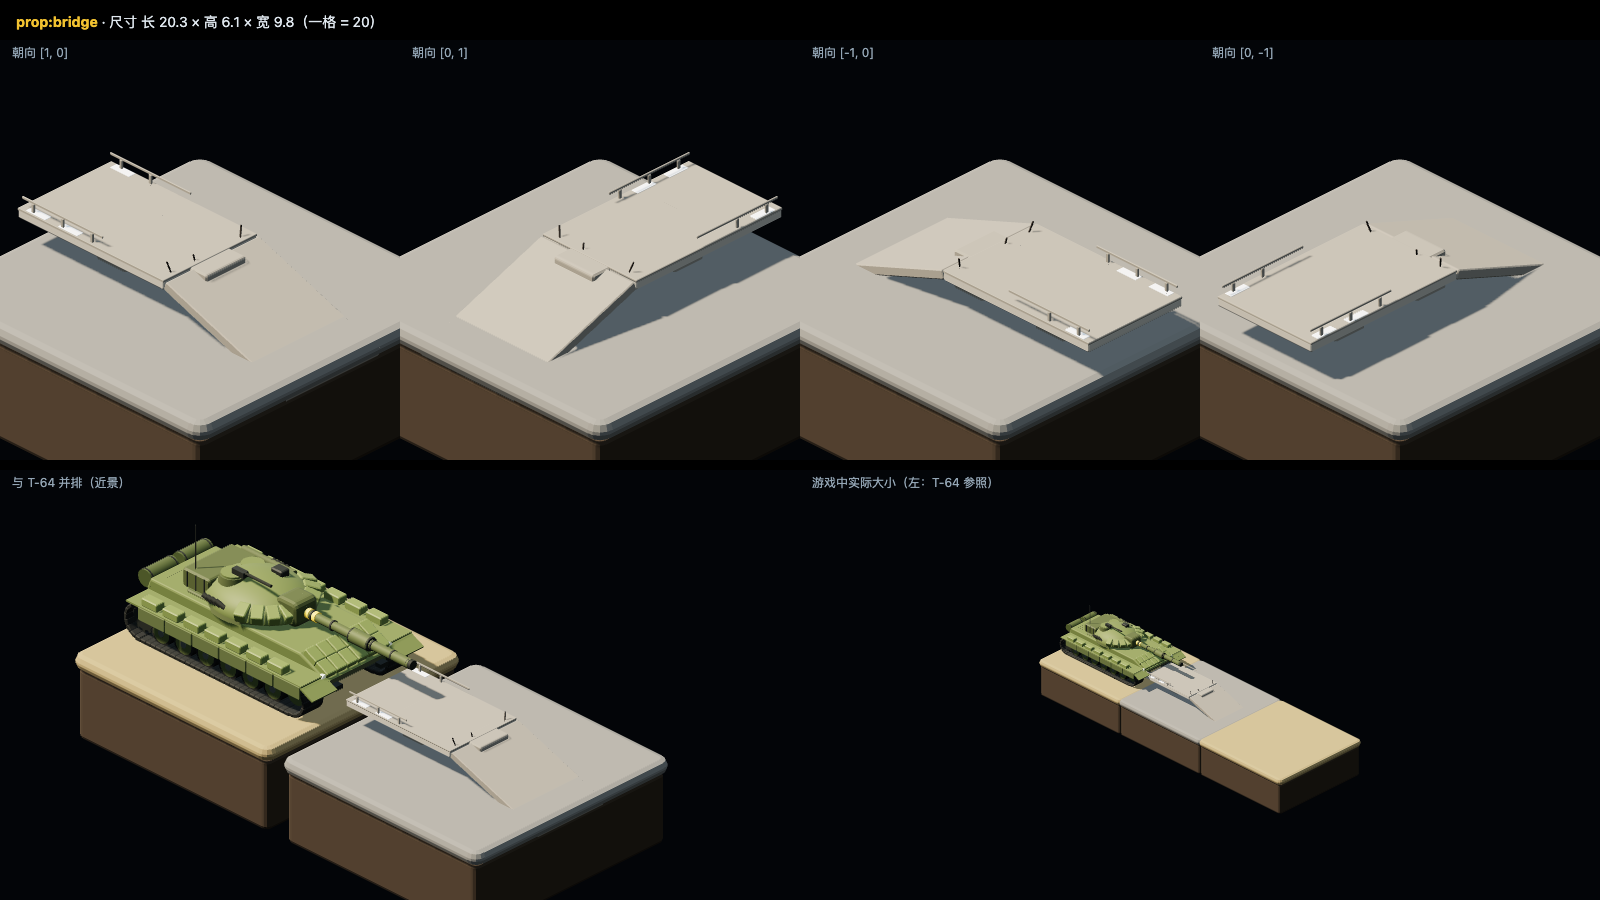
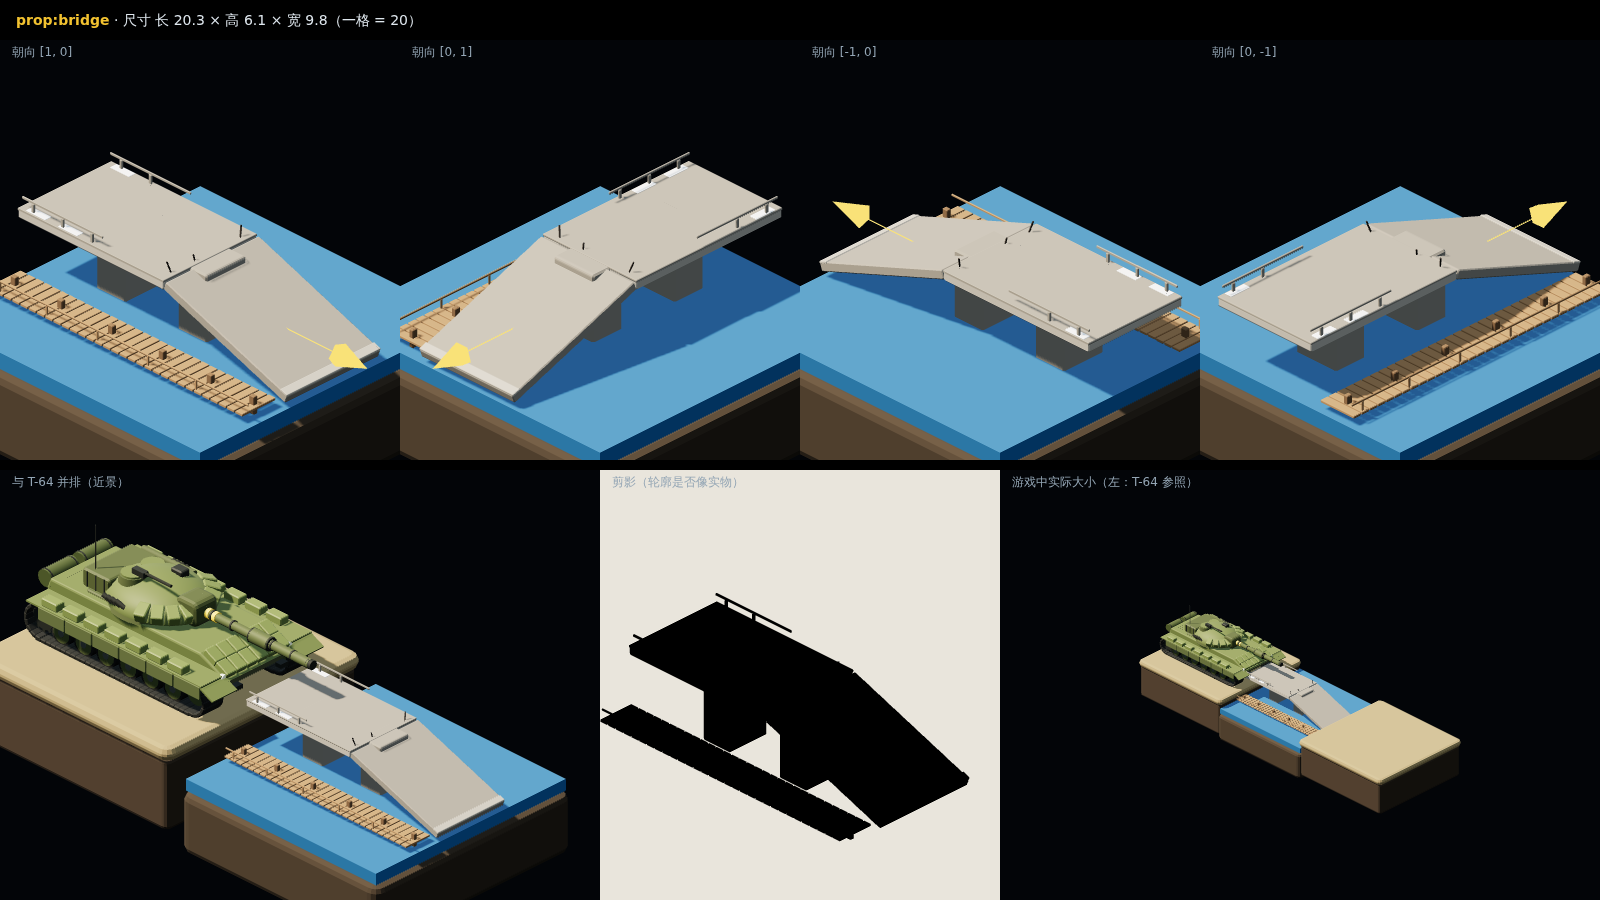
T-31, T-33: reviewer rewrites the church (roof above the walls, drum, porch, damage on the visible side); darken the bridge ruin
Claude-Session: https://claude.ai/code/session_01AwfH6u4m5DCVxaiMRmbgB9

diff --git a/game/js/models3d.js b/game/js/models3d.js
@@ -1111,56 +1111,90 @@ MODEL3D['bld:b'] = m3BldB;
 // ---------- T-31 教堂 bld:c ----------
 function m3BldC(seed, dmg) {
   const B = new THREE.Group();
-  const WALL = mat3('#e7e3d8', 0.8), BLUE = mat3('#3b6fb6', 0.6), ROOFG = mat3('#4a705d', 0.7), SNOW = mat3('#eef2f4', 0.75);
-  const DKS = mat3('#2d302a', 0.6, 0.3), GLS = mat3('#223044', 0.1, 0.3), GOLD = mat3('#e3b341', 0.3, 0.8);
-  const INK = mat3('#141614', 0.9);
-  // 1. chapel body: 12 x 9 footprint, walls 6 high
-  part(B, rbox(12, 6, 9, 0.14), WALL, 0, 3.0, 0);
-  // 2. three arched windows per long side: rectangular glass, semicircular top, blue frame
+  const WALL = mat3('#d8d2c4', 0.85), BLUE = mat3('#3b6fb6', 0.6), ROOFG = mat3('#4a705d', 0.7), ROOFD = mat3('#3d5e4d', 0.75);
+  const DKS = mat3('#2d302a', 0.6, 0.3), GLS = mat3('#223044', 0.1, 0.3), GOLD = mat3('#d9a93a', 0.3, 0.8);
+  const INK = mat3('#141614', 0.9), SOOT = mat3('#1f1c19', 1), BASE = mat3('#8d887d', 0.9);
+  const WH = 5.0, RH = 3.2, HX = 6.0, HZ = 4.5, OV = 0.6;   // wall height, roof rise, half length, half width, eave overhang
+  // 1. chapel body: 12 x 9 footprint, low walls on a grey plinth; triangular gables carry the roof
+  part(B, rbox(12.3, 0.5, 9.3, 0.1, 1), BASE, 0, 0.25, 0);
+  part(B, rbox(2 * HX, WH, 2 * HZ, 0.14), WALL, 0, WH / 2, 0);
+  const gs = new THREE.Shape(); gs.moveTo(-HZ, 0); gs.lineTo(HZ, 0); gs.lineTo(0, RH); gs.closePath();
+  const gg = new THREE.ExtrudeGeometry(gs, { depth: 0.3, bevelEnabled: false });
+  part(B, gg, WALL, HX - 0.3, WH, 0, 0, HALF_PI, 0);
+  part(B, gg, WALL, -HX, WH, 0, 0, HALF_PI, 0);
+  // 2. three arched windows per long side: glass, semicircular top, blue frame
   for (const s of [-1, 1]) for (let k = 0; k < 3; k++) {
-    const wx = -3.6 + k * 3.4, wy = 2.6, wz = s * 4.56;
+    const wx = -3.6 + k * 3.4, wy = 2.5, wz = s * (HZ + 0.03);
     const burnt = dmg && k === 1;
-    part(B, rbox(0.12, 1.5, 1.2, 0.04, 1), burnt ? INK : GLS, wx, wy - 0.45, wz);
-    part(B, new THREE.CylinderGeometry(0.6, 0.6, 0.12, 16, 1, false, 0, Math.PI), burnt ? INK : GLS, wx, wy + 0.3, wz, HALF_PI, 0, 0);
-    part(B, new THREE.CylinderGeometry(0.68, 0.68, 0.1, 16, 1, false, 0, Math.PI), BLUE, wx, wy + 0.3, s * 0.08, HALF_PI, 0, 0);
-    for (const dx of [-0.66, 0.66]) part(B, new THREE.BoxGeometry(0.14, 2.5, 0.14), BLUE, wx + dx, wy - 0.4, s * 0.08);
+    part(B, new THREE.BoxGeometry(1.2, 1.5, 0.1), burnt ? INK : GLS, wx, wy - 0.45, wz);
+    part(B, new THREE.CylinderGeometry(0.6, 0.6, 0.1, 16, 1, false, -HALF_PI, Math.PI), burnt ? INK : GLS, wx, wy + 0.3, wz, HALF_PI, 0, 0);
+    part(B, new THREE.CylinderGeometry(0.72, 0.72, 0.08, 16, 1, false, -HALF_PI, Math.PI), BLUE, wx, wy + 0.3, s * (HZ + 0.01), HALF_PI, 0, 0);
+    for (const dx of [-0.68, 0.68]) part(B, new THREE.BoxGeometry(0.14, 1.6, 0.12), BLUE, wx + dx, wy - 0.5, s * (HZ + 0.04));
+    part(B, new THREE.BoxGeometry(1.6, 0.12, 0.25), BLUE, wx, wy - 1.25, s * (HZ + 0.08));
+    if (burnt) part(B, new THREE.BoxGeometry(2.0, 2.2, 0.05), SOOT, wx, wy + 1.4, s * (HZ + 0.03));
   }
-  // 3. green pitched roof: stepped boards down both slopes, snow; a hole on one slope when damaged
-  const slope = Math.atan2(3.0, 4.5);
+  // 3. green pitched roof, ridge along x; each slope in three lengthwise pieces so one can be holed when damaged
+  const slope = Math.atan2(RH, HZ), sl = Math.hypot(HZ + OV, RH * (HZ + OV) / HZ);
   for (const s of [-1, 1]) {
-    const R = new THREE.Group(); R.position.set(0, 6.0, 0); R.rotation.x = s * slope; B.add(R);
-    for (let k = 0; k < 6; k++) {
-      if (dmg && s === -1 && k > 1 && k < 5) continue;
-      part(R, new THREE.BoxGeometry(12.9, 0.22, 1.2), k % 2 ? ROOFG : mat3('#43674f', 0.7), 0, 0.04 * k, s * (0.55 + k * 0.8));
+    const R = new THREE.Group(); R.position.set(0, WH + RH + 0.12, 0); R.rotation.x = s * slope; B.add(R);
+    for (const [px, pw] of [[-4.3, 4.6], [0, 4.0], [4.3, 4.6]]) {
+      if (dmg && s === 1 && px === 0) continue;
+      part(R, rbox(pw, 0.24, sl, 0.06, 1), ROOFG, px, 0, s * sl / 2);
     }
-    if (!(dmg && s === -1)) part(R, rbox(12.9, 0.07, 1.0, 0.03, 1), SNOW, 0, 0.16, s * 2.9);
-    if (dmg && s === -1) part(B, rbox(3.6, 1.7, 3.6, 0.1, 1), INK, 0.3, 5.5, s * 1.7);
+    // standing seams down the slope
+    for (let k = 0; k < 11; k++) {
+      const x = -6.2 + k * 1.24;
+      if (dmg && s === 1 && Math.abs(x) < 2) continue;
+      part(R, new THREE.BoxGeometry(0.07, 0.08, sl), ROOFD, x, 0.15, s * sl / 2);
+    }
+    if (dmg && s === 1) {
+      // the hole: charred rafters across it, dark inside
+      for (const [x, rz] of [[-1.2, 0.15], [0.3, -0.25], [1.4, 0.35]]) part(R, new THREE.BoxGeometry(0.14, 0.14, sl * 0.8), mat3('#3a2e24', 0.95), x, -0.02, sl * 0.45, 0, rz, 0);
+      part(B, new THREE.BoxGeometry(4.0, 0.05, 4.2), INK, 0, WH + 0.03, 2.2);
+    }
   }
-  // 4. octagonal drum on the ridge, four small arched windows, golden onion dome, orthodox cross
-  part(B, cyl(2.0, 2.15, 3.0, 8), WALL, -0.5, 10.5, 0);
-  for (const a of [0.4, 1.97, 3.54, 5.11]) {
-    part(B, rbox(0.45, 0.85, 0.1, 0.03, 1), GLS, -0.5 + Math.cos(a) * 1.9, 10.5, Math.sin(a) * 1.9, 0, -a, 0);
-    part(B, new THREE.CylinderGeometry(0.3, 0.3, 0.1, 10, 1, false, 0, Math.PI), BLUE, -0.5 + Math.cos(a) * 1.95, 11.0, Math.sin(a) * 1.95, HALF_PI, -a, 0);
+  part(B, cyl(0.16, 0.16, 12.9, 8), ROOFD, 0, WH + RH + 0.2, 0, 0, 0, HALF_PI);
+  // 4. octagonal drum astride the ridge, four arched windows, golden onion dome, orthodox cross
+  const DX = -0.5, DY = WH + RH - 0.6;
+  part(B, cyl(1.9, 2.05, 3.4, 8), WALL, DX, DY + 1.7, 0, 0, Math.PI / 8, 0);
+  part(B, cyl(2.2, 2.2, 0.25, 8), ROOFG, DX, DY + 3.45, 0, 0, Math.PI / 8, 0);
+  for (const a of [0, HALF_PI, Math.PI, 3 * HALF_PI]) {
+    const G = new THREE.Group(); G.position.set(DX + Math.cos(a) * 1.9, DY + 2.2, -Math.sin(a) * 1.9); G.rotation.y = a + HALF_PI; B.add(G);
+    part(G, new THREE.BoxGeometry(0.5, 0.8, 0.1), GLS, 0, 0, 0);
+    part(G, new THREE.CylinderGeometry(0.25, 0.25, 0.1, 10, 1, false, -HALF_PI, Math.PI), GLS, 0, 0.4, 0, HALF_PI, 0, 0);
   }
   const pts = [];
-  for (const [r, h] of [[0.05, 0], [1.6, 0.55], [2.3, 1.85], [2.1, 3.3], [1.2, 4.6], [0.55, 5.4], [0.24, 6.1], [0.03, 6.6]]) pts.push(new THREE.Vector2(r, h));
-  const ON = new THREE.Group(); ON.name = 'onion'; ON.position.set(-0.5, 12.0, 0); B.add(ON);
-  if (dmg) ON.rotation.z = -0.62;
+  for (const [r, h] of [[0.05, 0], [1.5, 0.3], [2.1, 1.3], [1.9, 2.6], [1.1, 3.6], [0.45, 4.3], [0.2, 4.9], [0.03, 5.3]]) pts.push(new THREE.Vector2(r, h));
+  const ON = new THREE.Group(); ON.name = 'onion'; ON.position.set(DX, DY + 3.55, 0); B.add(ON);
+  if (dmg) { ON.rotation.z = -0.55; ON.rotation.x = 0.2; }
   part(ON, new THREE.LatheGeometry(pts, 20), GOLD, 0, 0, 0);
-  part(ON, cyl(0.05, 0.05, 1.15, 6), GOLD, 0, 7.0, 0);
-  part(ON, new THREE.BoxGeometry(0.95, 0.09, 0.09), GOLD, 0, 7.25, 0);
-  part(ON, new THREE.BoxGeometry(0.65, 0.08, 0.08), GOLD, 0, 6.75, 0);
-  const SL = part(ON, new THREE.BoxGeometry(0.52, 0.07, 0.07), GOLD, 0, 6.15, 0); SL.rotation.z = 0.5;
-  // 5. porch on the +x face: small triangular roof, one arched door, three steps
-  part(B, rbox(1.8, 2.3, 3.7, 0.1, 1), WALL, 6.9, 1.15, 0);
-  part(B, rbox(0.12, 1.4, 1.1, 0.04, 1), INK, 7.82, 1.5, 0);
-  part(B, new THREE.CylinderGeometry(0.55, 0.55, 0.12, 14, 1, false, 0, Math.PI), INK, 7.82, 2.2, 0, HALF_PI, 0, 0);
-  for (const s of [-1, 1]) part(B, rbox(2.1, 0.14, 0.2, 0.05, 1), ROOFG, 7.35, 2.85, s * 1.0, 0, 0, -s * 0.55);
-  for (let k = 0; k < 3; k++) part(B, rbox(1.2 - k * 0.15, 0.2, 4.0 + k * 0.5, 0.04, 1), mat3('#c9c4b8', 0.85), 8.3 + k * 0.4, 0.1 + k * 0.2, 0);
-  // 7. damaged: charred window already above; rubble at the base
-  if (dmg) for (const [rx, rz, rr] of [[4.9, 1.3, 0.8], [5.6, -1.2, 0.6], [4.2, 2.0, 0.5], [5.9, 0.3, 0.55], [4.6, -0.4, 0.7], [5.2, 1.9, 0.5]]) {
-    const rub = part(B, rbox(rr * 2.2, rr, rr * 1.7, 0.06, 1), WALL, rx, rr / 2, rz); rub.rotation.y = rr * 3;
+  part(ON, cyl(0.05, 0.05, 1.5, 6), GOLD, 0, 5.8, 0);
+  part(ON, new THREE.BoxGeometry(0.09, 0.09, 0.9), GOLD, 0, 6.1, 0);
+  part(ON, new THREE.BoxGeometry(0.08, 0.08, 0.6), GOLD, 0, 5.7, 0);
+  part(ON, new THREE.BoxGeometry(0.07, 0.07, 0.5), GOLD, 0, 5.35, 0, 0.5, 0, 0);
+  // 5. porch on the +x face: gabled roof on two posts, arched door, three steps
+  part(B, new THREE.BoxGeometry(0.1, 2.0, 1.4), INK, HX + 0.02, 1.5, 0);
+  part(B, new THREE.CylinderGeometry(0.7, 0.7, 0.1, 14, 1, false, 0, Math.PI), INK, HX + 0.02, 2.5, 0, 0, 0, -HALF_PI);
+  for (const z of [-1.3, 1.3]) part(B, cyl(0.14, 0.14, 2.9, 8), WALL, HX + 1.9, 1.95, z);
+  const pr = Math.atan2(1.0, 1.7);
+  for (const s of [-1, 1]) {
+    const P = new THREE.Group(); P.position.set(HX + 1.0, 3.9, 0); P.rotation.x = s * pr; B.add(P);
+    part(P, rbox(2.4, 0.16, 2.1, 0.04, 1), ROOFG, 0, 0, s * 1.0);
   }
+  const ps = new THREE.Shape(); ps.moveTo(-1.6, 0); ps.lineTo(1.6, 0); ps.lineTo(0, 0.95); ps.closePath();
+  part(B, new THREE.ExtrudeGeometry(ps, { depth: 0.15, bevelEnabled: false }), WALL, HX + 2.05, 3.4, 0, 0, HALF_PI, 0);
+  part(B, new THREE.BoxGeometry(0.25, 0.25, 3.0), WALL, HX + 2.0, 3.35, 0);
+  part(B, new THREE.BoxGeometry(2.2, 0.2, 3.0), WALL, HX + 1.1, 3.35, 0);
+  for (let k = 0; k < 3; k++) part(B, rbox(2.6 - k * 0.5, 0.2, 3.2 - k * 0.3, 0.04, 1), BASE, HX + 1.4 + k * 0.25, 0.1 + k * 0.2, 0);
+  if (!dmg) return B;
+  // 6. damaged (on the +z side, which faces the camera): soot below the roof hole and on the gable, cracked plinth, rubble and fallen roof sheets
+  part(B, new THREE.BoxGeometry(3.4, 1.6, 0.05), SOOT, 0.2, WH - 0.9, HZ + 0.03);
+  part(B, new THREE.BoxGeometry(0.05, 1.8, 2.8), SOOT, -HX - 0.03, WH + 0.6, -1.0);
+  for (let k = 0; k < 9; k++) {
+    const x = -3 + hash(seed, k, 81) * 6, z = HZ + 0.8 + hash(seed, k, 82) * 2.4, r = 0.3 + hash(seed, k, 83) * 0.5;
+    part(B, rbox(r * 2.2, r, r * 1.7, 0.06, 1), k % 3 ? WALL : BASE, x, r / 2, z, 0, hash(seed, k, 84) * 3, (hash(seed, k, 85) - 0.5) * 0.5);
+  }
+  for (const [x, z, ry] of [[-0.8, 6.9, 0.4], [1.6, 6.5, -0.7]]) part(B, rbox(2.2, 0.12, 1.6, 0.03, 1), ROOFG, x, 0.3, z, 0.25, ry, 0.1);
   return B;
 }
 MODEL3D['bld:c'] = m3BldC;
@@ -1288,14 +1322,13 @@ function m3Rubble(seed) {
 }
 function m3BridgeRuin() {
   const T = new THREE.Group();
-  const CON1 = mat3('#9a958a', 0.85), CON2 = mat3('#7f7a70', 0.85), REB = mat3('#3a3530', 0.6, 0.4);
-  const PLANK = mat3('#8a6a48', 0.9), SNOW = mat3('#eef2f4', 0.75);
+  const CON1 = mat3('#858075', 0.85), CON2 = mat3('#6b675f', 0.85), REB = mat3('#3a3530', 0.6, 0.4);
+  const PLANK = mat3('#8a6a48', 0.9);
   // piers from the riverbed
   for (const px of [-5.2, 0.9]) part(T, rbox(2.0, 5.2, 3.0, 0.1, 1), CON2, px, -0.4, 0);
   // deck segment A: horizontal, resting on the piers, reaching the -x road
   part(T, rbox(10.8, 0.45, 7.0, 0.06, 1), CON1, -4.7, 2.0, 0);
   part(T, rbox(10.9, 0.1, 7.04, 0.03, 1), CON2, -4.7, 2.26, 0);
-  for (const [sx, sz] of [[-8.9, 3.2], [-6.5, 3.2], [-9.0, -3.2]]) part(T, rbox(1.4, 0.06, 0.5, 0.03, 1), SNOW, sx, 2.32, sz);
   // deck segment B: broken at mid-span, slanting down into the water at +x
   const segB = part(T, rbox(9.6, 0.45, 7.0, 0.06, 1), CON2, 5.4, 0.4, 0); segB.rotation.z = -0.34;
   part(segB, rbox(0.5, 0.1, 7.04, 0.03, 1), CON1, 4.55, 0.26, 0);

diff --git a/docs/tasks/T-31-精修教堂.md b/docs/tasks/T-31-精修教堂.md
@@ -120,3 +120,17 @@
    - 现在的受损图和完好图几乎一样。
 
 改完重新截 `bld_c.png` 和 `bld_c-dmg.png`。
+
+### 第 2 轮
+审查提交：27a79e3
+结论：审查方接手，已完成
+
+屋脊高度写成了墙顶高度（`R.position.y = 6.0`），两面坡屋顶整个埋进墙体里，从外面看还是一个白色方盒子；蓝色窗框放在了 `z = ±0.08`（建筑正中），也被墙挡住。按约定由审查方接手重写：
+- 墙降到 5 高，下面加灰色勒脚；屋脊抬到 8.2，挑檐 0.6，两端三角山墙；屋面加竖向压条和屋脊；
+- 窗框贴到墙面上，拱顶朝上；
+- 八角鼓座骑在屋脊上，顶上绿色檐口和金色洋葱顶、东正教十字；
+- 门廊：两根柱子、带山花的坡顶、拱门、三级台阶；
+- 受损（放在镜头能看到的 +z 一侧）：屋面开洞、烧焦的椽子、洋葱顶歪斜、窗户烧黑、墙面熏黑、墙脚碎块和掉落的屋面板。
+墙面用 `#d8d2c4`，不再自带积雪。
+
+执行方下次注意：每个组的位置写完先想一下它在世界坐标里落在哪，屋脊应该在墙顶之上；零件贴墙时 z 要等于墙的半宽。

diff --git a/docs/tasks/BOARD.md b/docs/tasks/BOARD.md
@@ -37,8 +37,8 @@
 | T-28 | [精修 3D：奥兰-10 侦察无人机 orlan](T-28-精修奥兰-10.md) | 已完成 | T-16 | 1 |
 | T-29 | [精修 3D：海上无人艇 magura 与 03160“猛禽”巡逻艇 raptor](T-29-精修无人艇与巡逻艇.md) | 已完成 | T-16 | 1 |
 | T-30 | [精修 3D：赫鲁晓夫楼（五层板式住宅） bld:b](T-30-精修赫鲁晓夫楼.md) | 已完成 | T-16 | 2 |
-| T-31 | [精修 3D：乡村东正教教堂 bld:c](T-31-精修教堂.md) | 需修改 | T-16 | 1 |
+| T-31 | [精修 3D：乡村东正教教堂 bld:c](T-31-精修教堂.md) | 已完成 | T-16 | 2 |
 | T-32 | [精修 3D：变电站 bld:S 与机库 bld:H](T-32-精修变电站与机库.md) | 已完成 | T-16 | 2 |
-| T-33 | [精修 3D：建筑废墟 bld:rubble 与伊尔平断桥 prop:bridge](T-33-精修废墟与断桥.md) | 需修改 | T-16 | 1 |
+| T-33 | [精修 3D：建筑废墟 bld:rubble 与伊尔平断桥 prop:bridge](T-33-精修废墟与断桥.md) | 已完成 | T-16 | 2 |
 | T-34 | [3D 地形细化](T-34-地形细化.md) | 待开发 | — | 0 |
 | T-35 | [3D 烟柱与烟团](T-35-3D烟柱.md) | 待开发 | — | 0 |

diff --git a/docs/tasks/T-33-精修废墟与断桥.md b/docs/tasks/T-33-精修废墟与断桥.md
@@ -120,3 +120,9 @@
 5. 改完后，请把 `node tools/shot3d.js` 的 `m1-turn1.png` 里断桥那一格截一张放大图（用任意截图工具裁切即可）放进 `docs/tasks/shots/T-33/bridge-ingame.png`，因为检视图的地块是陆地，看不到水面上的效果。
 
 - 补充：检视工具已更新（集成分支 `f815646`），船和断桥现在放在水面格上显示。先合入最新集成分支，直接看 `prop_bridge.png` 即可，第 5 条的裁图不用做了。
+
+### 第 2 轮
+审查提交：42478fe
+结论：通过（审查方微调颜色）
+
+放在水面上看效果对了：一段桥面架在桥墩上，断口后面一段斜插进水里，便桥从旁边的水面上横穿全格，一眼能读出“断桥旁边搭了便桥”。审查方只调了颜色：混凝土压暗到 `#858075` / `#6b675f`，去掉桥面上的积雪块（季节由场景负责）。检视图 `prop_bridge.png` 已用集成分支上带水面的检视工具重拍。
